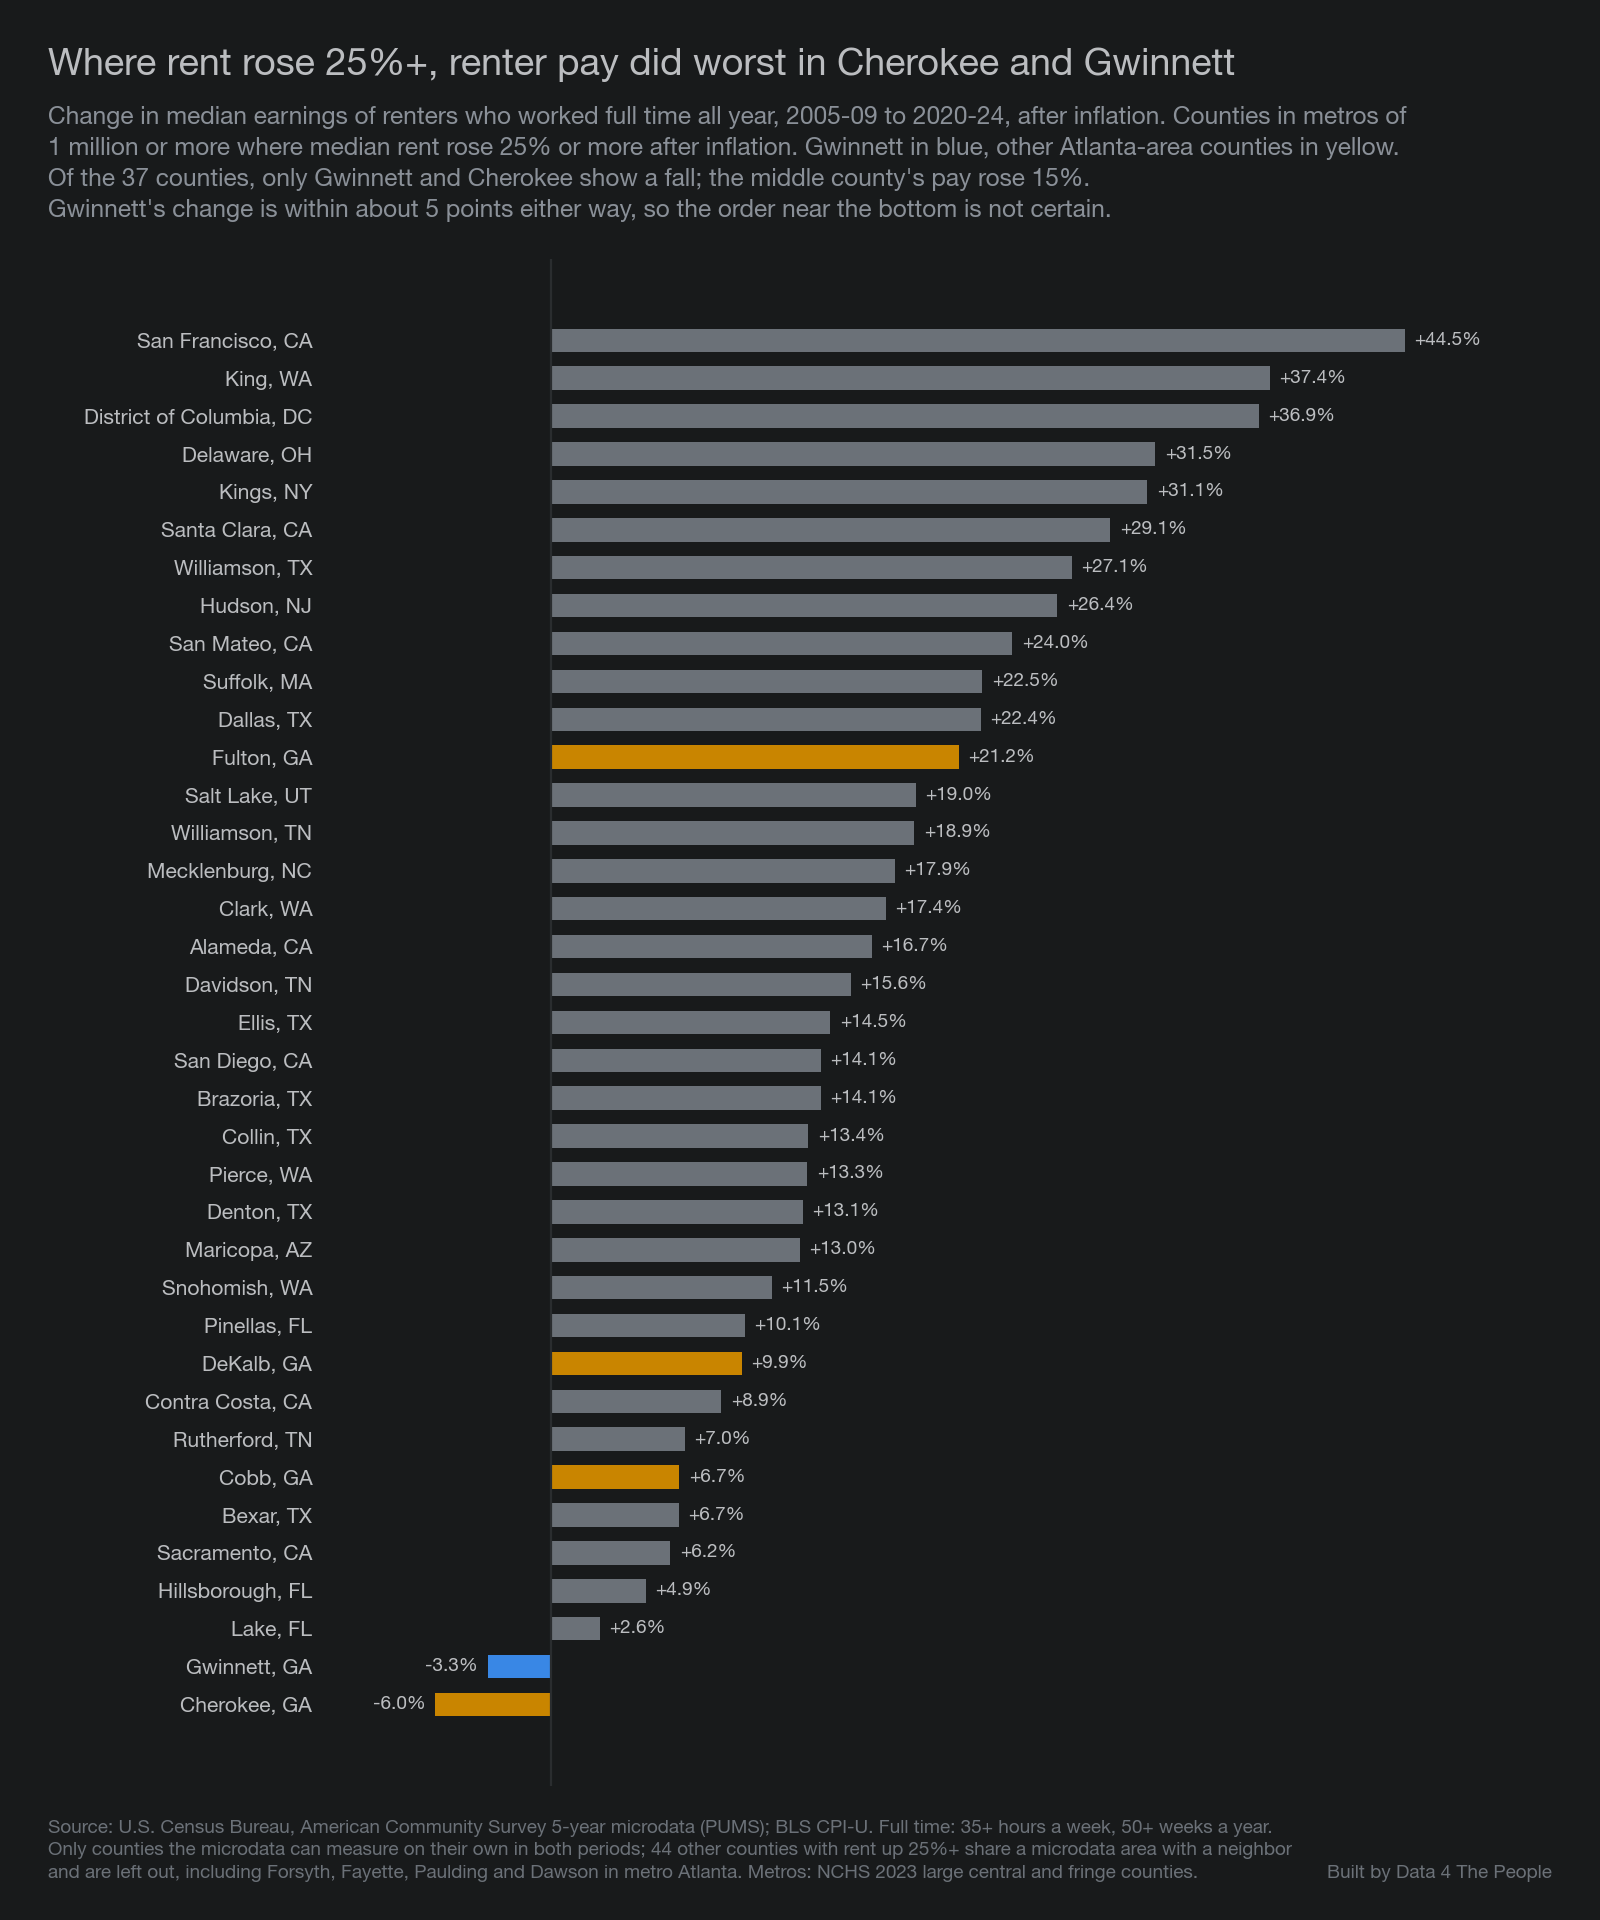
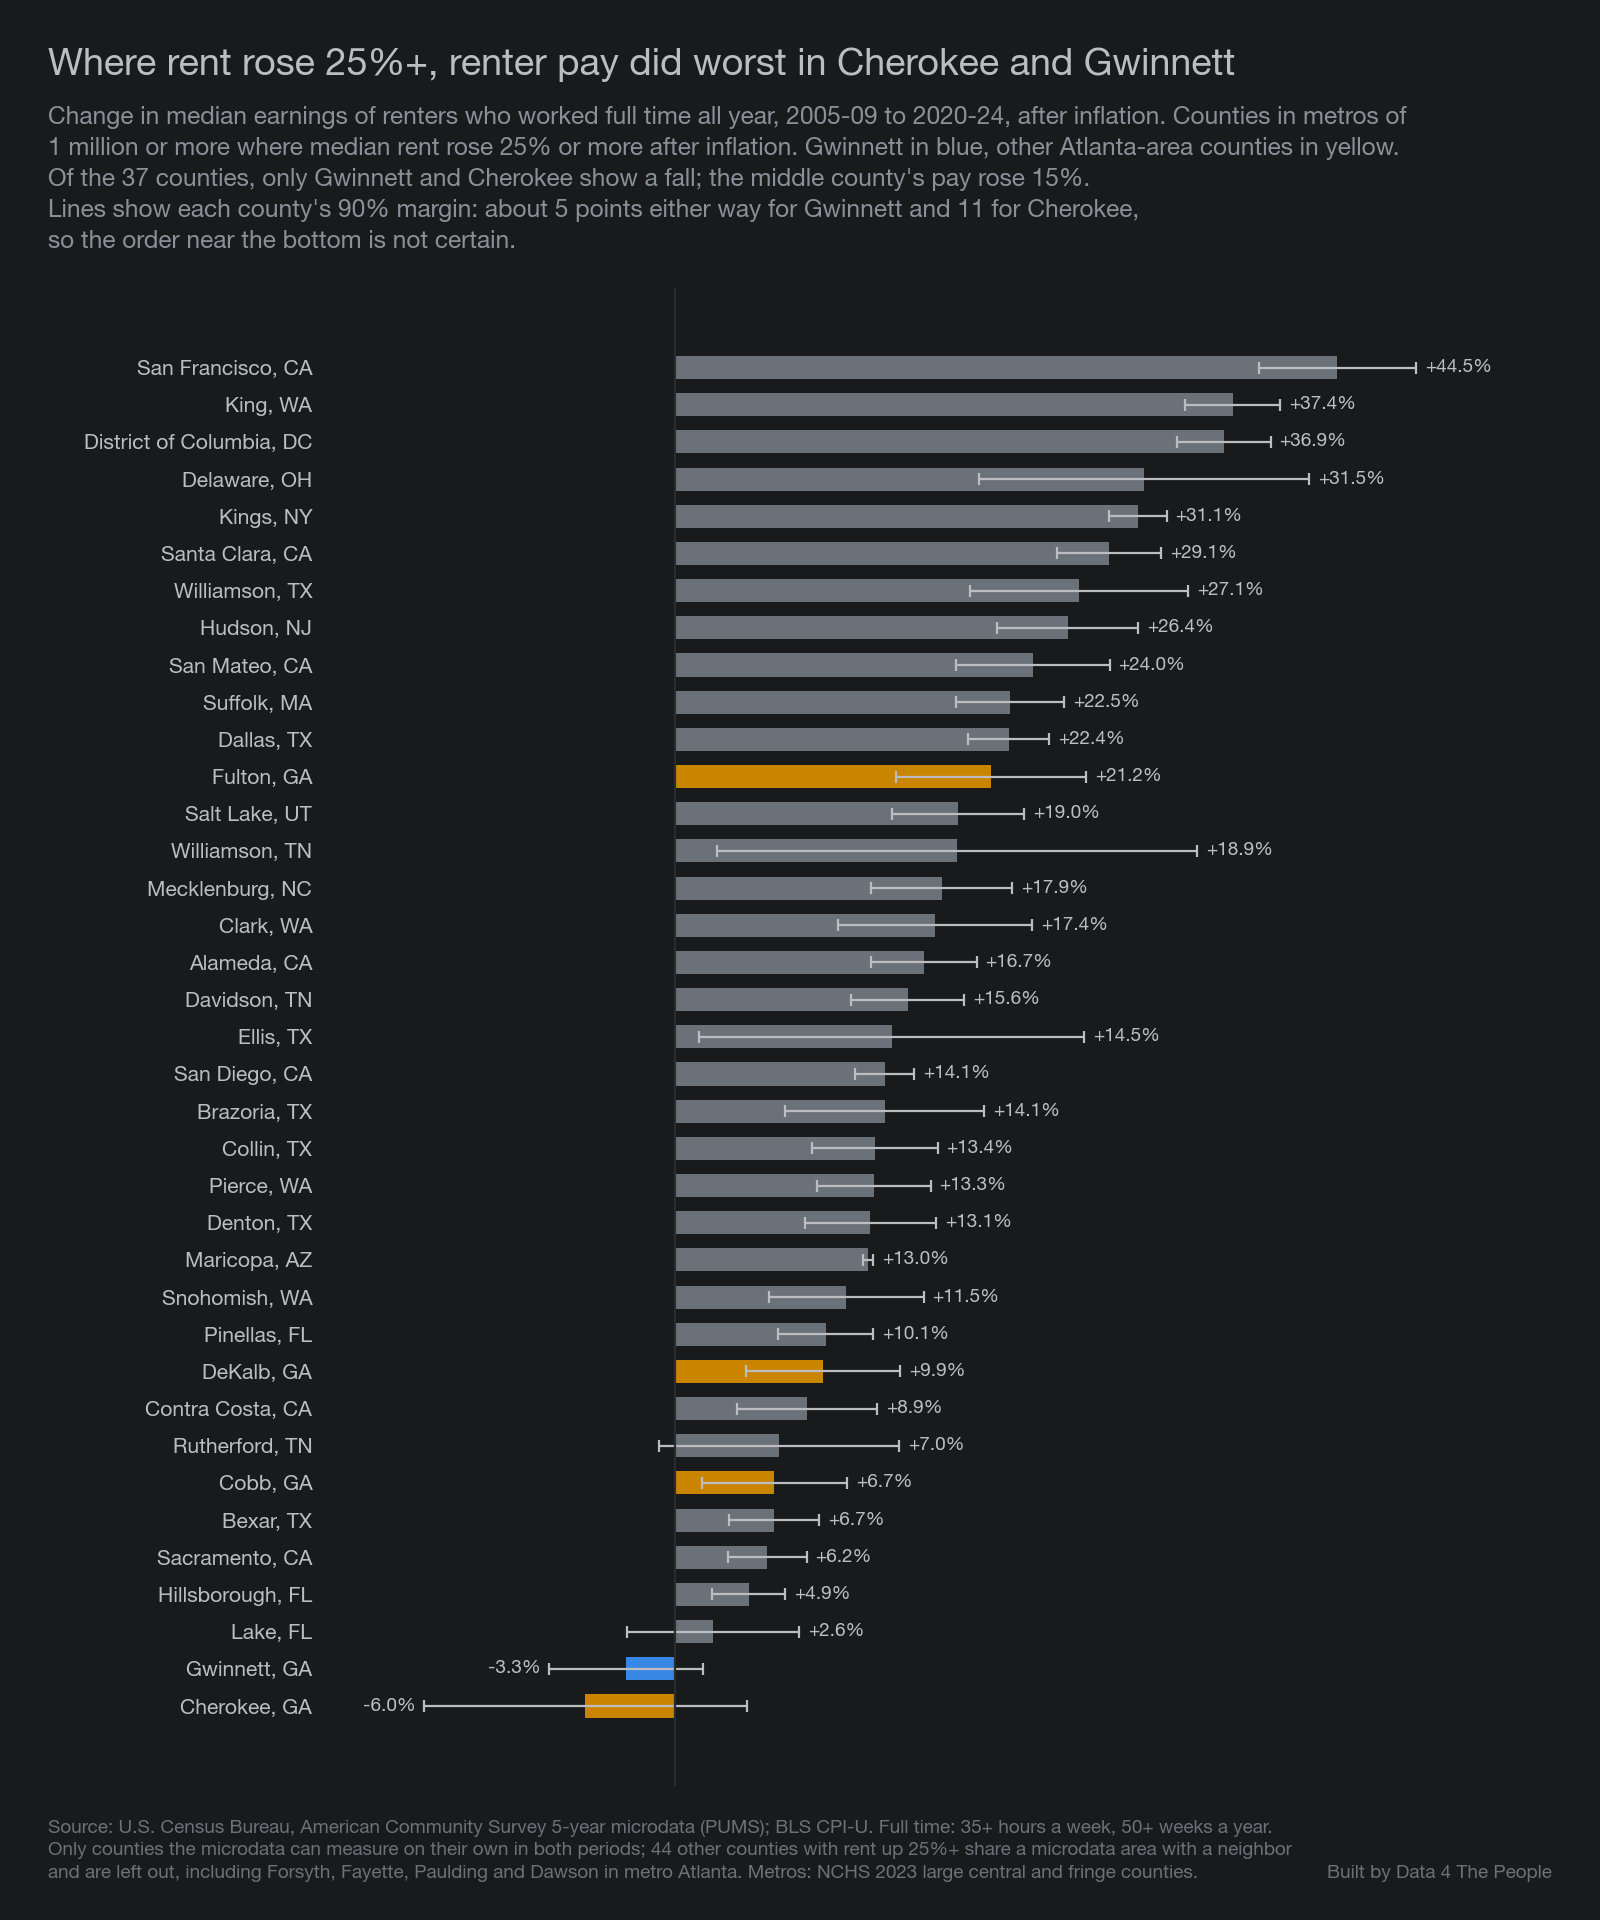
gwinnett-county-rents: margin lines on the national renter-pay chart; Cherokee caveat in text

diff --git a/scripts/09_charts.py b/scripts/09_charts.py
@@ -505,12 +505,20 @@ def national_pay():
     labels = [names[f].replace(" County", "").split(",")[0] + ", " + STATE_AB[f[:2]] for f in pool]
     vals = [res[f][0] for f in pool]
     atl = [metro[f].startswith("Atlanta") for f in pool]
-    fig, ax = frame(left=0.2, top=0.865, bottom=0.07, h=12)
-    hbars(ax, labels, vals, [BLUE if f == G else (YELLOW if a else MUTED) for f, a in zip(pool, atl)], lambda v: f"{v:+.1f}%", 0.5)
-    ax.tick_params(axis="y", labelsize=9.5)
-    for t in ax.texts:
-        t.set_fontsize(8.5)
-    ax.set_xlim(min(vals) - 6, max(vals) + 6)
+    moe = [1.645 * res[f][1] for f in pool]
+    fig, ax = frame(left=0.2, top=0.85, bottom=0.07, h=12)
+    y = list(range(len(pool)))[::-1]
+    ax.barh(y, vals, color=[BLUE if f == G else (YELLOW if a else MUTED) for f, a in zip(pool, atl)], height=0.62)
+    ax.errorbar(vals, y, xerr=moe, fmt="none", ecolor=INK, elinewidth=1, capsize=2.5, capthick=1)
+    for yy, v, m in zip(y, vals, moe):
+        x = v + m + 0.6 if v >= 0 else v - m - 0.6
+        ax.text(x, yy, f"{v:+.1f}%", va="center", ha="left" if v >= 0 else "right", color=INK, fontsize=8.5)
+    ax.set_yticks(y, labels, color=INK, fontsize=9.5)
+    ax.set_xticks([])
+    for side in ("left", "bottom"):
+        ax.spines[side].set_visible(False)
+    ax.axvline(0, color=GRID, lw=1)
+    ax.set_xlim(min(v - m for v, m in zip(vals, moe)) - 7, max(v + m for v, m in zip(vals, moe)) + 7)
     rank = len(pool) - pool.index(G)
     med = sorted(vals)[len(vals) // 2]
     fell = [names[f].replace(" County", "").split(",")[0] for f in pool if res[f][0] < 0]
@@ -518,7 +526,8 @@ def national_pay():
                f"Change in median earnings of renters who worked full time all year, 2005-09 to 2020-24, after inflation. Counties in metros of\n"
                f"1 million or more where median rent rose 25% or more after inflation. Gwinnett in blue, other Atlanta-area counties in yellow.\n"
                f"Of the {len(pool)} counties, only {' and '.join(fell)} show a fall; the middle county's pay rose {med:.0f}%.\n"
-               f"Gwinnett's change is within about {1.645 * res[G][1]:.0f} points either way, so the order near the bottom is not certain.",
+               f"Lines show each county's 90% margin: about {1.645 * res[G][1]:.0f} points either way for Gwinnett and"
+               f" {1.645 * res['13057'][1]:.0f} for Cherokee,\nso the order near the bottom is not certain.",
                y=0.975)
     left = counts[2] - counts[3]
     credit(fig, "Source: U.S. Census Bureau, American Community Survey 5-year microdata (PUMS); BLS CPI-U. Full time: 35+ hours a week, 50+ weeks a year.\n"

diff --git a/posts/gwinnett-county-rents/POST.md b/posts/gwinnett-county-rents/POST.md
@@ -63,10 +63,10 @@ In other words, the rentals new to the market came in out of reach, and the olde
 
 Why did renter income not keep up? For the same kind of renter household (the same number of workers, and a householder of the same age and education), income fell about 3% after inflation. Renter households as a whole earned more only because the households changed: more members worked, more worked full time, and more householders were older or had college degrees. Pay itself did not rise. After inflation, the median renter who worked full time all year earned about $46,100 in 2005-2009 and $44,600 in 2020-2024. In Cobb, that pay rose 7%.
 
-Few counties with rents rising this fast saw that. We looked at 37 counties in large metro areas where rent rose 25% or more after inflation and the survey can measure the county on its own. Only two showed a drop in full-time renter pay: Gwinnett and Cherokee County, also in metro Atlanta. In the middle county of the group, it rose 15%.
+Few counties with rents rising this fast saw that. We looked at 37 counties in large metro areas where rent rose 25% or more after inflation and the survey can measure the county on its own. Only two showed a drop in full-time renter pay: Gwinnett, and Cherokee County, also in metro Atlanta, whose estimate is much less certain. In the middle county of the group, it rose 15%.
 
-![Bar chart of the change in median earnings of renters who worked full time all year, 2005-2009 to 2020-2024, after inflation, in 37 counties in large metro areas where median rent rose 25% or more after inflation. San Francisco is highest at 44.5%. The middle county rose about 15%. Cobb rose 6.7%, DeKalb 9.9% and Fulton 21.2%. Only Gwinnett, down 3.3%, and Cherokee, down 6.0%, fell.](images/06-renter-pay.png)
-*Source: Census Bureau, American Community Survey 5-year microdata; BLS consumer price index. Gwinnett's change has a margin of about 5 points either way, so the order near the bottom is not certain. Another 44 counties with rent up 25% or more share a microdata area with a neighbor and could not be measured on their own.*
+![Bar chart of the change in median earnings of renters who worked full time all year, 2005-2009 to 2020-2024, after inflation, in 37 counties in large metro areas where median rent rose 25% or more after inflation. San Francisco is highest at 44.5%. The middle county rose about 15%. Cobb rose 6.7%, DeKalb 9.9% and Fulton 21.2%. Only Gwinnett, down 3.3%, and Cherokee, down 6.0%, show a drop. Lines on each bar show the margin of error, widest for Cherokee.](images/06-renter-pay.png)
+*Source: Census Bureau, American Community Survey 5-year microdata; BLS consumer price index. Lines show 90% margins: about 5 points either way for Gwinnett and 11 for Cherokee, so the order near the bottom is not certain. Another 44 counties with rent up 25% or more share a microdata area with a neighbor and could not be measured on their own.*
 
 [Eric: closing]
 

diff --git a/STATUS.md b/STATUS.md
@@ -152,3 +152,6 @@ None.
   Cherokee GA; only those two show a drop; middle county +14.5%. Chart 16
   replaces the Atlanta renter-pay chart as post image 06. Tie-out 81 of 81.
   New numbers since Step 1 have Claude's tie-out only.
+- 2026-10-21 Eric asked whether to keep Cherokee (margin +/-10.8). Kept;
+  90% margin lines added to every bar of chart 16, and the post text notes
+  Cherokee's estimate is much less certain.
